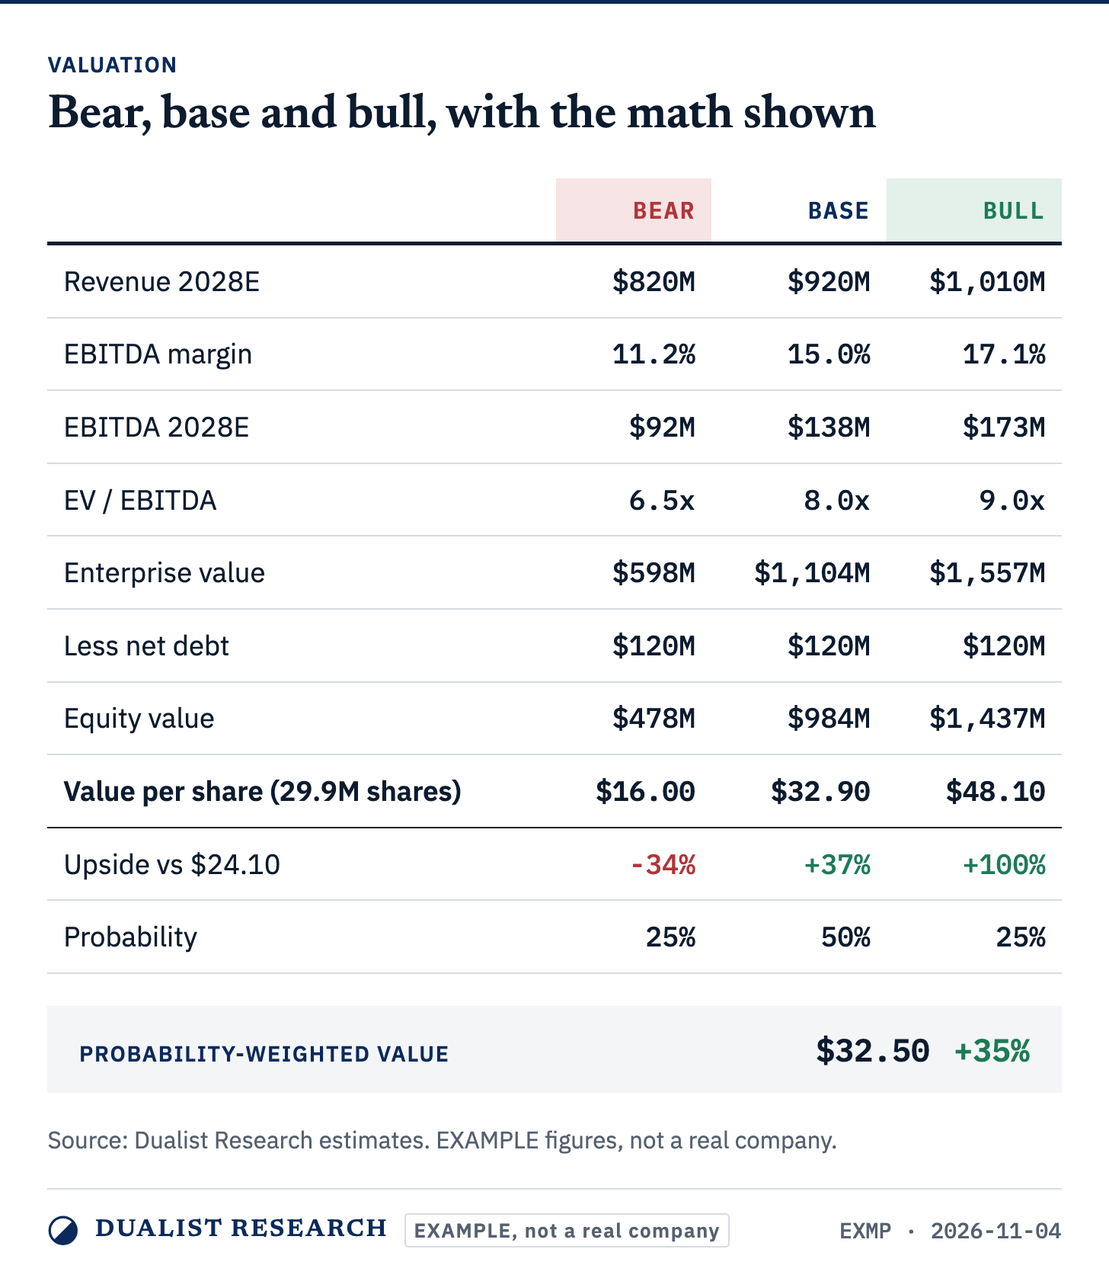
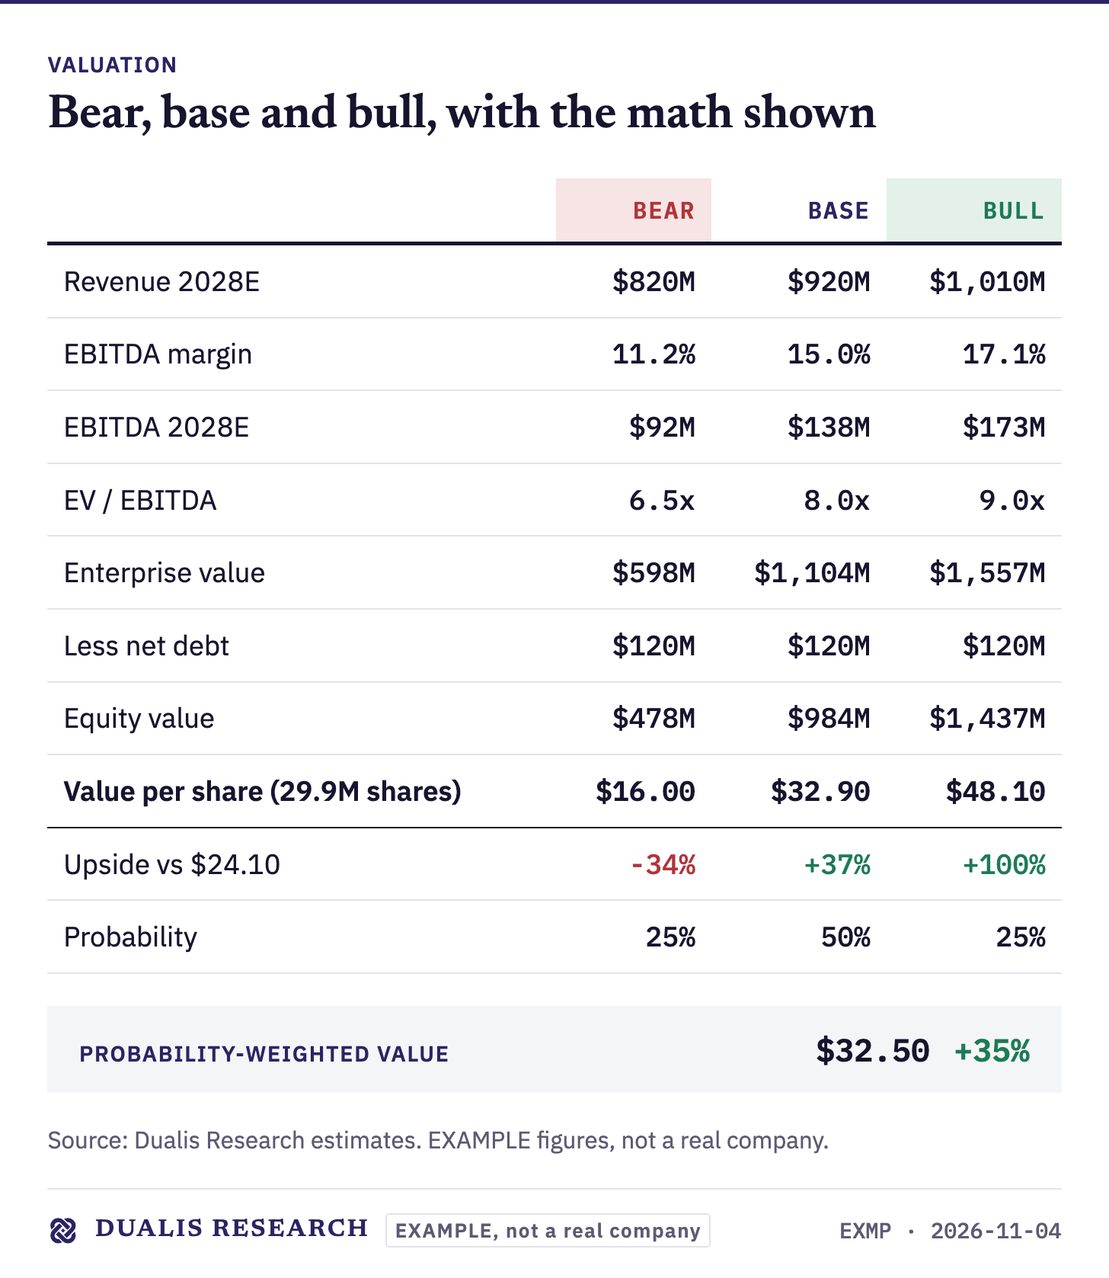
docs(design): retire "Every idea weighed from both sides" and other leftovers
A full pass on the design system, templates, skills and docs after Kevin
spotted the old tagline on the Design system page (2026-11-09):

- Tagline: design README, Cover preview and the article subscribe caption now
  use the site line "Independent research for buy-side opportunities".
- Article templates were broken: render.mjs defaulted to split-disc.svg, a
  logo candidate deleted when the Solomon knot won. Default is dualis-mark;
  example re-rendered; chart colours accept the 10-colour series palette.
- Docs listed a Plans page: the page is /subscribe (Plans 404s). The design
  README still described the old trading-floor home clip.
- dualis-charts docstring and daily-content skill name the Notes chart style.
- web/.env.example: local database dualis, no T.

Website checked page by page (live): no old tagline, logo, fund wording,
location or placeholder; the only "upside" and dashes are in Thierry's own
published titles.

diff --git a/templates/images.css b/templates/images.css
@@ -71,4 +71,14 @@ html, body { background: var(--surface); }
 .legend .sw.muted { border-top-color: var(--muted); }
 .legend .sw.long { border-top-color: var(--long); }
 .legend .sw.short { border-top-color: var(--short); }
+.legend .sw.series-1 { border-top-color: var(--chart-series-1); }
+.legend .sw.series-2 { border-top-color: var(--chart-series-2); }
+.legend .sw.series-3 { border-top-color: var(--chart-series-3); }
+.legend .sw.series-4 { border-top-color: var(--chart-series-4); }
+.legend .sw.series-5 { border-top-color: var(--chart-series-5); }
+.legend .sw.series-6 { border-top-color: var(--chart-series-6); }
+.legend .sw.series-7 { border-top-color: var(--chart-series-7); }
+.legend .sw.series-8 { border-top-color: var(--chart-series-8); }
+.legend .sw.series-9 { border-top-color: var(--chart-series-9); }
+.legend .sw.series-10 { border-top-color: var(--chart-series-10); }
 .legend .sw.dashed { border-top-style: dashed; }

diff --git a/design/components/Cover/preview.html b/design/components/Cover/preview.html
@@ -24,7 +24,7 @@
   </div>
   <div class="words">
     <h1 class="name">Dualis Research</h1>
-    <p class="tag">Every idea weighed from both sides.</p>
+    <p class="tag">Independent research for buy-side opportunities.</p>
   </div>
 </div>
 </body>

diff --git a/.claude/skills/dualis-charts/dualis_charts.py b/.claude/skills/dualis-charts/dualis_charts.py
@@ -3,7 +3,7 @@
 
 Library:
     import dualis_charts as dc
-    fig, ax = dc.figure("dark")                       # "dark" = Thierry's black Note chart, "light" = report page
+    fig, ax = dc.figure("dark")                       # "dark" = Notes and X (white on deep indigo), "light" = website and report pages
     dc.bars(ax, ["FY24", "FY25", "FY26E"], [498, 541, 590], label="Revenue ($m)")
     dc.line(ax, ["FY24", "FY25", "FY26E"], [13.1, 14.6, 15.8], label="EBITDA margin (%)", right=True, fmt="{:.1f}%")
     dc.finish(fig, ax, title="Margins are back at the 2019 level", source="Source: Company filings, Dualis Research.", out="chart.png")

diff --git a/CLAUDE.md b/CLAUDE.md
@@ -44,7 +44,7 @@ Independent equity research brand for **Thierry Matin** (client, friend, product
 **The console looks and moves exactly like the Cloudflare dashboard** (Kevin 2026-11-04): built on Cloudflare's own component library **Kumo** (`@cloudflare/kumo`, Base UI + Tailwind v4), Phosphor icons, Kumo's system font stack, spacing and transitions. Only the colours are ours: **one colour, Dualis indigo `#2B2463`** (Thierry 2026-11-06: a purple close to a very professional dark blue; old navy too blue, old purple CTA too light; site, logo, charts and console alike) replaces Cloudflare's brand (`@theme` overrides in `web/src/app/globals.css`), long/short green/red stay data colours. The console logo and favicon are the site's (Solomon's knot + caps wordmark, `console/logo.tsx` inline in `currentColor`; Kevin 2026-11-06); its sidebar stays white, Cloudflare-style. Use a Kumo component before writing any custom UI (`npx @cloudflare/kumo ls` / `doc <Name>`); semantic tokens only (`bg-kumo-base`, `text-kumo-subtle`...). Server components import Kumo compound parts through the flat aliases in `web/src/console/kumo.tsx` (`KTableRow`, not `Table.Row`).
 
 ## Website (`site/`)
-Public website, separate Next.js Worker `dualis-site` (private preview for Thierry, `noindex`, no password: Kevin 2026-11-04). **Same pages as Aurelion Research (Kevin 2026-11-05), but NO block, line or sequence copied from Aurelion inside them** (Kevin 2026-11-06: « tu as tout laissé pareil »; `site/src/lib/copy.test.ts` bans its lines): blocks come from the other competitors in `inspiration/` (Altas latest-research rows, Pernas proof block + trust cards + FAQ, footer email field). **Dark professional indigo, never light purple** (Kevin 2026-11-06): deep `#1A1640` page bands and track record with white type, white sections, no lavender surface or accent. **Thierry = Founder and Lead Analyst of Dualis Research, never a fund / Duality / asset manager** on the site, and the portfolio size (« 2-4 names », « concentrated ») is never shown (Kevin 2026-11-06: he aims for 10-20). Track record = his published +45% YTD + his own post's curve vs the S&P 500, redrawn (`lib/track-record.ts`). Footer: institutional (brand line, Research / Firm / Legal columns, email field, important information), Terms of Use + Privacy Policy (`lib/legal.ts`). **Never where Thierry lives (Astana, Kazakhstan) on the site** (Kevin 2026-11-06). Nav order: Research, Company, Portfolio, About, Contact (Kevin 2026-11-06). Company = Altas-style photo hero, statement + 3 columns, « What we look for » (his tables, as cards: small caps, cyclical stocks, hammered names, less-covered markets), calls scoreboard, Thierry's line « Play winnable games » signed with a link to About (his photo and bio live on About ONLY, never duplicated: Kevin 2026-11-06). **No price vs value figure on Company** (Thierry 2026-11-06: « doesn't fit the style of the website »). Track record on Company = a QUIET scoreboard: small « Track record » label, no headline, one row per best call (side, name, one line, result in body size, report link) above the list of every call; never big numbers or report summaries (Thierry 2026-11-06: « I don't know if you want to emphasize on that »; Kevin: « trop verbeux »). Home = ONE screen, no scroll, no footer, title « Independent research for buy-side opportunities » (Thierry 2026-11-06: on the investor's side, unlike sell-side analysts) over a 34 s loop of the industries and real assets experts expect to hold up in the AI era, HOTTEST FIRST (Kevin 2026-11-06: SpaceX Falcon 9 launch, XQ-58 AI drone, robotics, chips, data centers, power, grid, oil and gas, ports, then raw materials: copper and mining, agriculture; never a 1990s shuttle or an old missile; NO caption in the footage; public-domain US government footage + Mixkit), light veil on the left only (« plus wow, plus visible »; `public/video/hero.mp4`, poster on reduced motion), Company, Research (+ portal), Portfolio, About (his photo, no team page), Contact, Plans, Disclaimer. **Shows ONLY what Thierry published** (Thierry: « the thing that's good about Aurelion is that they don't have all that stuff »): `site/src/lib/queries.ts` reads `gold.content_library` (own Substack articles) + `gold.content_channels`, never the watchlist, theses or `gold.calls`. Portal = black and white list, hover shows the report; shelves Coverage / Primers / Memos from `research_category` (judged once per own article in `content-posts`, `category.ts`, key `research-category@v1`). Covers = a Commons photo of the company or its industry under an indigo veil + shelf, title, date, mark (`cover.tsx`; photo picked once per own article by the `cover-photos` dimension, credit shown under the portal preview), never AI. The reports also show as a **black horizontal strip**: covers in black and white, the one under the pointer grows and turns to colour (Thierry 2026-11-06: the one asked-for effect). **No visual effect anywhere** (Kevin 2026-11-05: « enlève tout effet… je n'aime pas »): no spotlight, pointer reaction, scroll-in or load animation, drifting dots; never add one without his ask. His ask: the home video (2026-11-06). **No point / particle animation, no poker scene anywhere** (Kevin 2026-11-09: « Enlève toutes les animations de point », after the poker-of-points scenes shipped the same day). The « play winnable games » thread lives in COPY only: one short poker line per page (`lib/winnable.ts`), Company's tables as cards. **Native browser scrolling only, never a smooth-scroll library** (Lenis removed: « scrolling speed so weird », Kevin 2026-11-05). **Never "coming soon" or placeholder text on the site** (Kevin 2026-11-05): leave a thing out until it exists. Portfolio = year to date only (`TRACK_RECORD` in `model.ts`, his published +45% YTD as of 2026-10-16; replace with the brokerage statement), no basket metrics, no partner module. **Site charts = the light chart theme** (Thierry 2026-11-06: « black on purple » looked weird, « a white background with a purple », clean like Aurelion's): white panel, indigo main series, grey benchmark (`chart-light-bench`), light gridlines, the source inside the panel (`dark-chart.tsx`, `ytd-chart.tsx`, `chart.themes.light` in `design/tokens.json`); Substack Notes and X charts = white data on the deep indigo `#1A1640` ground (Thierry 2026-11-09, his pick among rendered options; `chart.themes.dark`), and a chart with many series takes the 10 `chart-series` colours in order (Thierry: « a few colours in case the chart has like 5-10 different variables »). No AI price target, upside or horizon on the site. Deploys by `deploy-site.yml` on `site/**`. See `site/README.md`.
+Public website, separate Next.js Worker `dualis-site` (private preview for Thierry, `noindex`, no password: Kevin 2026-11-04). **Same pages as Aurelion Research (Kevin 2026-11-05), but NO block, line or sequence copied from Aurelion inside them** (Kevin 2026-11-06: « tu as tout laissé pareil »; `site/src/lib/copy.test.ts` bans its lines): blocks come from the other competitors in `inspiration/` (Altas latest-research rows, Pernas proof block + trust cards + FAQ, footer email field). **Dark professional indigo, never light purple** (Kevin 2026-11-06): deep `#1A1640` page bands and track record with white type, white sections, no lavender surface or accent. **Thierry = Founder and Lead Analyst of Dualis Research, never a fund / Duality / asset manager** on the site, and the portfolio size (« 2-4 names », « concentrated ») is never shown (Kevin 2026-11-06: he aims for 10-20). Track record = his published +45% YTD + his own post's curve vs the S&P 500, redrawn (`lib/track-record.ts`). Footer: institutional (brand line, Research / Firm / Legal columns, email field, important information), Terms of Use + Privacy Policy (`lib/legal.ts`). **Never where Thierry lives (Astana, Kazakhstan) on the site** (Kevin 2026-11-06). Nav order: Research, Company, Portfolio, About, Contact (Kevin 2026-11-06). Company = Altas-style photo hero, statement + 3 columns, « What we look for » (his tables, as cards: small caps, cyclical stocks, hammered names, less-covered markets), calls scoreboard, Thierry's line « Play winnable games » signed with a link to About (his photo and bio live on About ONLY, never duplicated: Kevin 2026-11-06). **No price vs value figure on Company** (Thierry 2026-11-06: « doesn't fit the style of the website »). Track record on Company = a QUIET scoreboard: small « Track record » label, no headline, one row per best call (side, name, one line, result in body size, report link) above the list of every call; never big numbers or report summaries (Thierry 2026-11-06: « I don't know if you want to emphasize on that »; Kevin: « trop verbeux »). Home = ONE screen, no scroll, no footer, title « Independent research for buy-side opportunities » (Thierry 2026-11-06: on the investor's side, unlike sell-side analysts) over a 34 s loop of the industries and real assets experts expect to hold up in the AI era, HOTTEST FIRST (Kevin 2026-11-06: SpaceX Falcon 9 launch, XQ-58 AI drone, robotics, chips, data centers, power, grid, oil and gas, ports, then raw materials: copper and mining, agriculture; never a 1990s shuttle or an old missile; NO caption in the footage; public-domain US government footage + Mixkit), light veil on the left only (« plus wow, plus visible »; `public/video/hero.mp4`, poster on reduced motion), Company, Research (+ portal), Portfolio, About (his photo, no team page), Contact, Subscribe (the plans, `/subscribe`), Disclaimer. **Shows ONLY what Thierry published** (Thierry: « the thing that's good about Aurelion is that they don't have all that stuff »): `site/src/lib/queries.ts` reads `gold.content_library` (own Substack articles) + `gold.content_channels`, never the watchlist, theses or `gold.calls`. Portal = black and white list, hover shows the report; shelves Coverage / Primers / Memos from `research_category` (judged once per own article in `content-posts`, `category.ts`, key `research-category@v1`). Covers = a Commons photo of the company or its industry under an indigo veil + shelf, title, date, mark (`cover.tsx`; photo picked once per own article by the `cover-photos` dimension, credit shown under the portal preview), never AI. The reports also show as a **black horizontal strip**: covers in black and white, the one under the pointer grows and turns to colour (Thierry 2026-11-06: the one asked-for effect). **No visual effect anywhere** (Kevin 2026-11-05: « enlève tout effet… je n'aime pas »): no spotlight, pointer reaction, scroll-in or load animation, drifting dots; never add one without his ask. His ask: the home video (2026-11-06). **No point / particle animation, no poker scene anywhere** (Kevin 2026-11-09: « Enlève toutes les animations de point », after the poker-of-points scenes shipped the same day). The « play winnable games » thread lives in COPY only: one short poker line per page (`lib/winnable.ts`), Company's tables as cards. **Native browser scrolling only, never a smooth-scroll library** (Lenis removed: « scrolling speed so weird », Kevin 2026-11-05). **Never "coming soon" or placeholder text on the site** (Kevin 2026-11-05): leave a thing out until it exists. Portfolio = year to date only (`TRACK_RECORD` in `model.ts`, his published +45% YTD as of 2026-10-16; replace with the brokerage statement), no basket metrics, no partner module. **Site charts = the light chart theme** (Thierry 2026-11-06: « black on purple » looked weird, « a white background with a purple », clean like Aurelion's): white panel, indigo main series, grey benchmark (`chart-light-bench`), light gridlines, the source inside the panel (`dark-chart.tsx`, `ytd-chart.tsx`, `chart.themes.light` in `design/tokens.json`); Substack Notes and X charts = white data on the deep indigo `#1A1640` ground (Thierry 2026-11-09, his pick among rendered options; `chart.themes.dark`), and a chart with many series takes the 10 `chart-series` colours in order (Thierry: « a few colours in case the chart has like 5-10 different variables »). No AI price target, upside or horizon on the site. Deploys by `deploy-site.yml` on `site/**`. See `site/README.md`.
 
 ## Inspiration copies (`inspiration/`)
 Local copies of the reference sites + Thierry's dualityfund.com: `node capture.mjs`, `node serve.mjs` → `inspo.localhost:4400`, `<id>.localhost:4400` (live, JS kept: a 2026 "wow" site is mostly its JS, Kevin 2026-11-04), `<id>-static.localhost:4400`. captures live in `~/.cache/dualis-inspiration`, outside the repo (third-party content; shared by every workspace, never re-capture all of it: `node capture.mjs <id>` for one site). See `inspiration/README.md`.

diff --git a/design/README.md b/design/README.md
@@ -1,6 +1,6 @@
 # Dualis Research
 
-Independent equity research. Every idea is weighed from both sides before we take one.
+Independent research for buy-side opportunities: long and short ideas in small and mid caps. Play winnable games.
 
 Version 4, November 2026 (v4: Notes and X charts on deep indigo, a 10-colour series palette; v3: one indigo colour; v2: purple accent, dark charts, Aurelion-style website). Built from the references Thierry picked: Altas (calm institutional restraint), Aurelion Research (navy, serif voice, numbered sections, "What if we're wrong"), Pernas Research (layout of a research firm), Citrini (one iconic mark). Nothing here is final: comment on anything.
 
@@ -10,7 +10,7 @@ Version 4, November 2026 (v4: Notes and X charts on deep indigo, a 10-colour ser
 - The claim first, the evidence after. Titles state a view ("Monro is a cheap call on Icahn's next move"), never a topic ("Monro update").
 - Short sentences, one idea each. Numbers carry a date and a source.
 - Calm and confident. No hype words, no rocket emojis, no em dashes.
-- Both sides, always: every note says what would make us wrong.
+- Every note says what would make us wrong.
 - English only. Every published piece ends with the disclaimer.
 
 ## Colour
@@ -47,7 +47,7 @@ Two themes (Thierry 2026-11-09, he picked them from rendered options). **Substac
 The paywall sits after item 4 or 5.
 
 ## Website (Aurelion's pages, our own rendering)
-Pages (Kevin 2026-11-05): Home (one full-bleed hero), Company, Research (with the research portal), Portfolio (year-to-date only), About (Thierry, photo), Contact, Plans, Disclaimer. Rendering of our own (Thierry 2026-11-06, "we copy them too closely"): every inner page opens on a deep indigo band (section name, one serif statement, white) and closes on a deep indigo band (statement left, one action right); between them white sections, with deep indigo for the track record. Blocks come from the competitors' best (Altas's latest-research rows, Pernas's proof block, trust cards and FAQ), never Aurelion's sequence. Section headings in IBM Plex Sans, statements in Newsreader, sentence case. The portal lists only what Thierry published: a black and white list, the row under the pointer shows its report. Covers: a Wikimedia Commons photo of the company or its industry under an indigo veil, with shelf, title, date and mark, never AI images. The reports also run as a black horizontal strip: black and white covers, the one under the pointer grows and turns to colour. Home background: a muted trading-floor clip (Mixkit, free licence) under a deep indigo veil.
+Pages (Kevin 2026-11-05): Home (one full-bleed hero), Company, Research (with the research portal), Portfolio (year-to-date only), About (Thierry, photo), Contact, Subscribe (the plans), Disclaimer. Rendering of our own (Thierry 2026-11-06, "we copy them too closely"): every inner page opens on a deep indigo band (section name, one serif statement, white) and closes on a deep indigo band (statement left, one action right); between them white sections, with deep indigo for the track record. Blocks come from the competitors' best (Altas's latest-research rows, Pernas's proof block, trust cards and FAQ), never Aurelion's sequence. Section headings in IBM Plex Sans, statements in Newsreader, sentence case. The portal lists only what Thierry published: a black and white list, the row under the pointer shows its report. Covers: a Wikimedia Commons photo of the company or its industry under an indigo veil, with shelf, title, date and mark, never AI images. The reports also run as a black horizontal strip: black and white covers, the one under the pointer grows and turns to colour. Home background: a 34 s loop of the industries and real assets expected to hold up in the AI era, hottest first, under a light veil on the left only (public-domain US government footage + Mixkit).
 
 ## Disclaimer (verbatim)
 Not investment advice. For information only. The author may hold positions in the securities discussed.

diff --git a/.claude/skills/daily-content/SKILL.md b/.claude/skills/daily-content/SKILL.md
@@ -15,7 +15,7 @@ description: The daily distribution loop for Dualis Research - 2 posts/day on Su
 3. A market-wide take tied to a thesis.
 
 **Post shape = Multibagger Ideas** (@multibaggerideas: 42K readers, 515 paid, ~$1M/yr; Thierry 2026-11-09 « copy aspects of his posting »; Note TYPES below; the paragraph + chart shape is Thierry's)
-- Substack Note = **one small paragraph (2-4 sentences) + one chart** (Thierry 2026-11-06: « this is more of like a report... A note should be like a small paragraph with a chart »; the drafter's `substack-note` rule). Opens on a number or a one-line claim.
+- Substack Note = **one small paragraph (2-4 sentences) + one chart** (the most striking Exhibit of the driver it cites, white data on deep indigo; `content-visuals` draws it, the price only when the post is about price) (Thierry 2026-11-06: « this is more of like a report... A note should be like a small paragraph with a chart »; the drafter's `substack-note` rule). Opens on a number or a one-line claim.
 - Four Note types he rotates: **maths fact** made visual (emoji bars « Lose 50% → need +100% », a table by decade) + one famous case (Buffett, Amazon -90%); **teaser** of a new post = a restack of it, company unnamed + 3 figures (« record revenue / stock down 56% »); **closed call** with its % (« Thesis Closed at +81% in 15 Months »); **milestone** as plain facts (views, readers, paid).
 - X: « much smaller »: one or two sentences, at most 160 characters, the number first, the chart attached.
 - An Idea can be a plain company update, not only an inflection (Thierry). The weekly article is HIS (« one a week, high quality »): drafts are Notes and posts, articles leave the proposals.

diff --git a/templates/README.md b/templates/README.md
@@ -38,7 +38,7 @@ Every image ends with the Dualis footer (mark, name, ticker, date). Long green a
 ```json
 {
   "outDir": "images",
-  "logo": "split-disc",
+  "logo": "dualis-mark",
   "article": { "company": "", "thesis": "", "ticker": "", "exchange": "", "price": "", "marketCap": "",
                "position": "LONG", "target": "", "upside": "+37%", "horizon": "18 months", "date": "YYYY-MM-DD", "example": false },
   "images": [
@@ -56,8 +56,8 @@ Every image ends with the Dualis footer (mark, name, ticker, date). Long green a
 
 - `signed: true` colours `+` values green and `-` values red (upside rows).
 - `emphasis: true` makes a row bold (value per share).
-- Chart colours: `brand` (default), `muted`, `long`, `short`. A gap in a series is `null`.
-- `logo` is one of `split-disc`, `mirrored-d`, `crossed-ticks` (from `design/assets/Logos/`) until Thierry picks one.
+- Chart colours: `brand` (default), `muted`, `long`, `short`, and `series-1` to `series-10` (the design system palette) for a chart with many series. A gap in a series is `null`.
+- `logo` is a file of `design/assets/Logos/` without `.svg`: `dualis-mark` (default, Solomon's knot) or `dualis-seal`.
 - Em and en dashes in the spec are replaced by commas.
 
 Rendering needs Google Chrome in `/Applications` (or `CHROME_PATH`) and internet for the Google Fonts. If Chrome fails, the script falls back to macOS `qlmanage`.

diff --git a/site/README.md b/site/README.md
@@ -1,6 +1,6 @@
 # Dualis Research website (`site/`)
 
-The public website: Aurelion Research's page list (Kevin 2026-11-05), none of its blocks (Kevin 2026-11-06): Home (video hero), Company, Research (with the research portal), Portfolio, About, Contact, Plans, Disclaimer, Terms of Use, Privacy Policy. Private preview for Thierry until launch (not indexed, no link to it anywhere).
+The public website: Aurelion Research's page list (Kevin 2026-11-05), none of its blocks (Kevin 2026-11-06): Home (video hero), Company, Research (with the research portal), Portfolio, About, Contact, Subscribe (the plans, `/subscribe`), Disclaimer, Terms of Use, Privacy Policy. Private preview for Thierry until launch (not indexed, no link to it anywhere).
 
 - Live: https://dualis-site.dualis-research.workers.dev (every merge to `main` touching `site/` deploys, `.github/workflows/deploy-site.yml`).
 - Data: reads the console's **gold** tables in Neon, read-only (`src/lib/queries.ts`): only Thierry's PUBLISHED Substack articles (`gold.content_library`, own publications) and his Substack URL (`gold.content_channels`). Never the watchlist, theses or calls.

diff --git a/templates/substack-article.md b/templates/substack-article.md
@@ -87,7 +87,7 @@ Subtitle: [One line: the trade and the main number, e.g. "Long EXMP. Base value 
 
 Prices as of [YYYY-MM-DD] close. Estimates are Dualis Research's own, built from company filings and [other sources]. Valuation uses [method, e.g. EV/EBITDA on 2028 estimates] across bear, base and bull scenarios.
 
-[BUTTON: Subscribe, caption "Every idea, weighed from both sides."]
+[BUTTON: Subscribe, caption "Independent research for buy-side opportunities."]
 
 ---
 

diff --git a/templates/example/article.md b/templates/example/article.md
@@ -90,7 +90,7 @@ The gap between bear and bull is mostly margin: 11.2% against 17.1%. Our base ca
 
 Prices as of 2026-11-04 close. EXAMPLE: the company, ticker and every figure in this note are invented to show the Dualis format. Valuation uses EV/EBITDA on 2028 estimates across bear, base and bull scenarios.
 
-[BUTTON: Subscribe, caption "Every idea, weighed from both sides."]
+[BUTTON: Subscribe, caption "Independent research for buy-side opportunities."]
 
 ---
 
